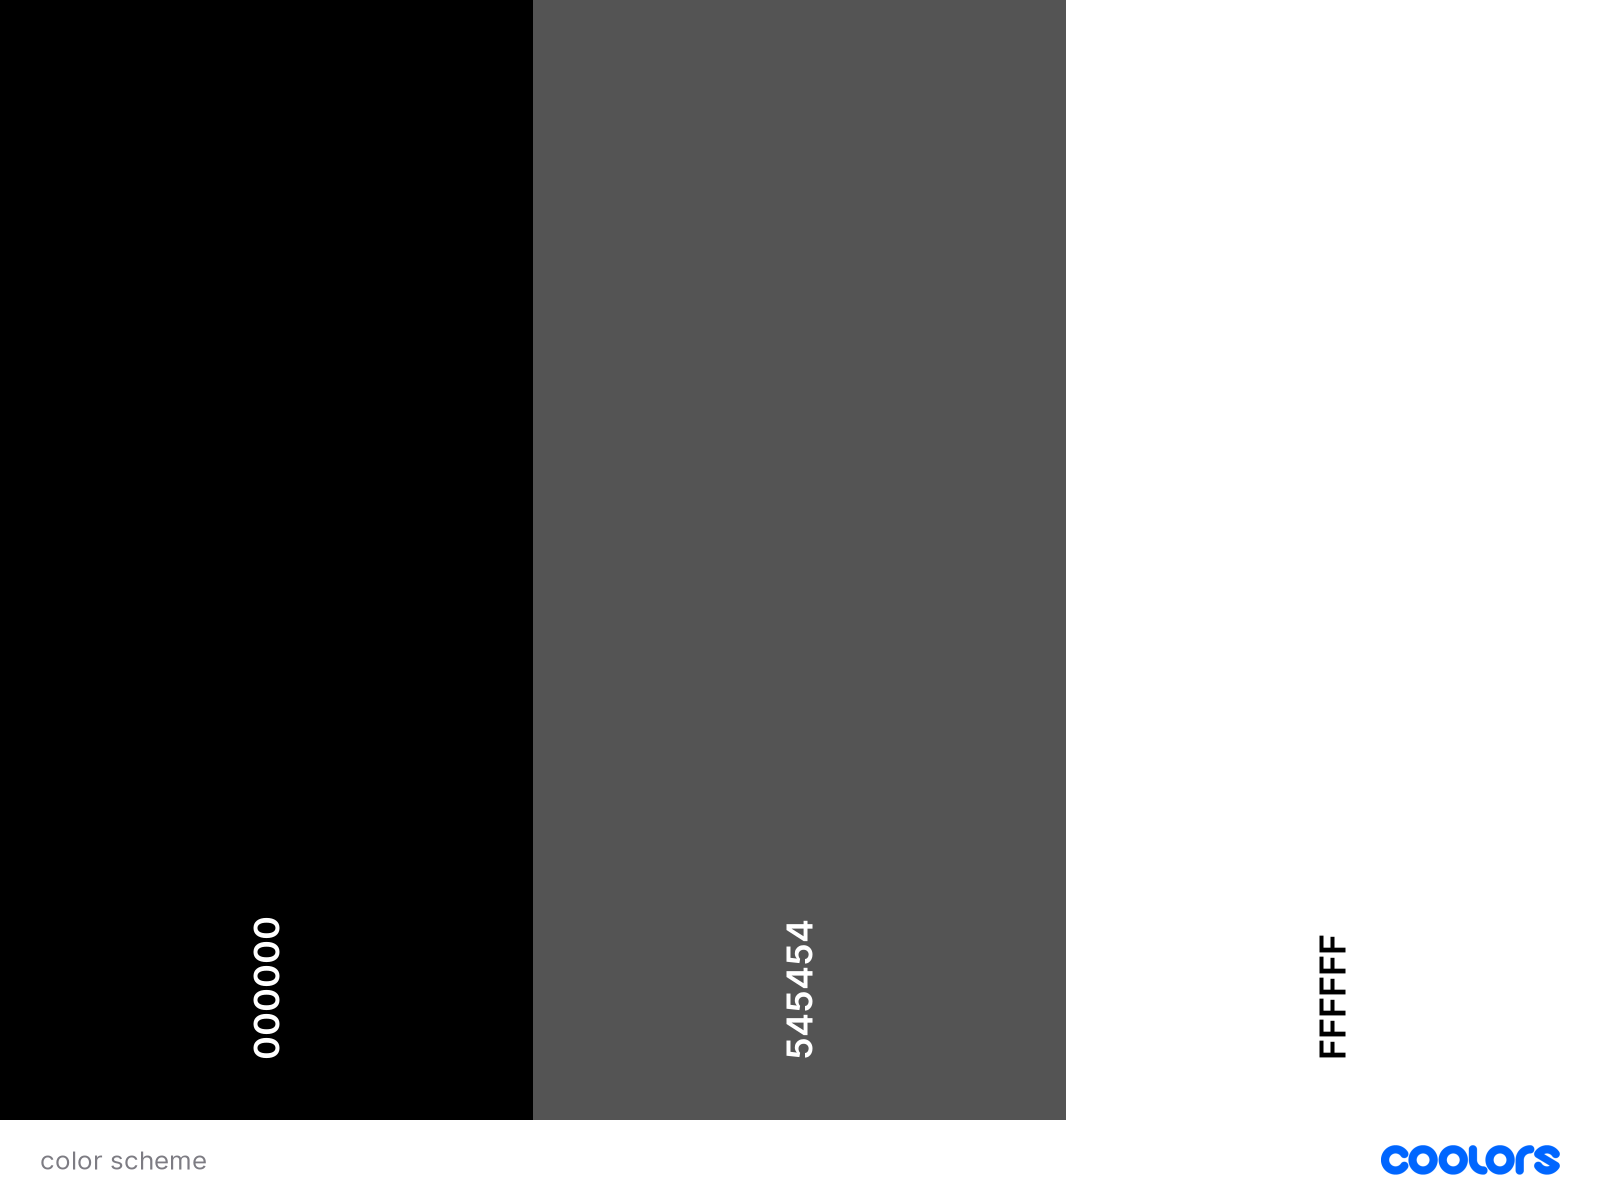
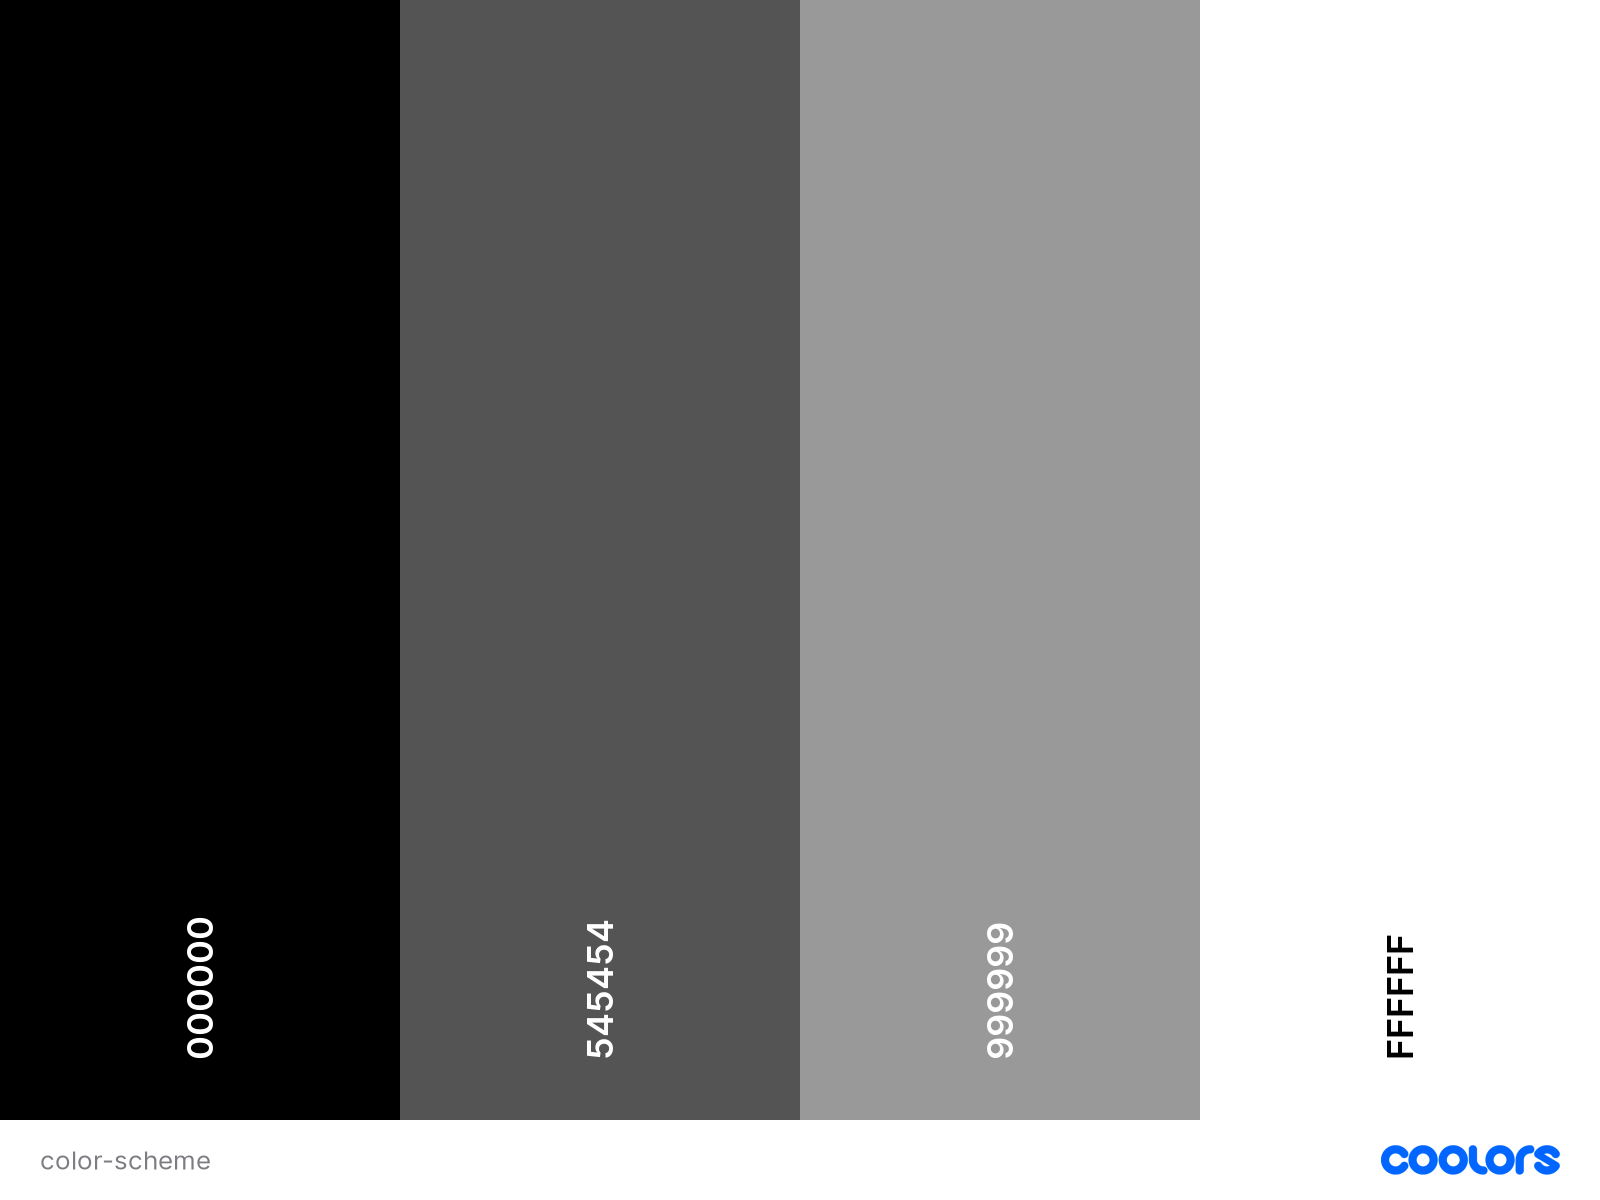
fix the color scheme on README

diff --git a/README.md b/README.md
@@ -34,7 +34,8 @@ This website provides information about the history and workings of ENIAC.</p>
 
 ### Color scheme
 
-I used <a href="https://coolors.co/000000-545454-ffffff" target="_blank">Coolors.co</a> to generate my colour palette.
+I used <a href="https://coolors.co/000000-545454-999999-ffffff" target="_blank">Coolors.co</a> to generate my colour palette.
+
 
 <img src="documentation/images/color-scheme.png" alt="Color scheme">
 
